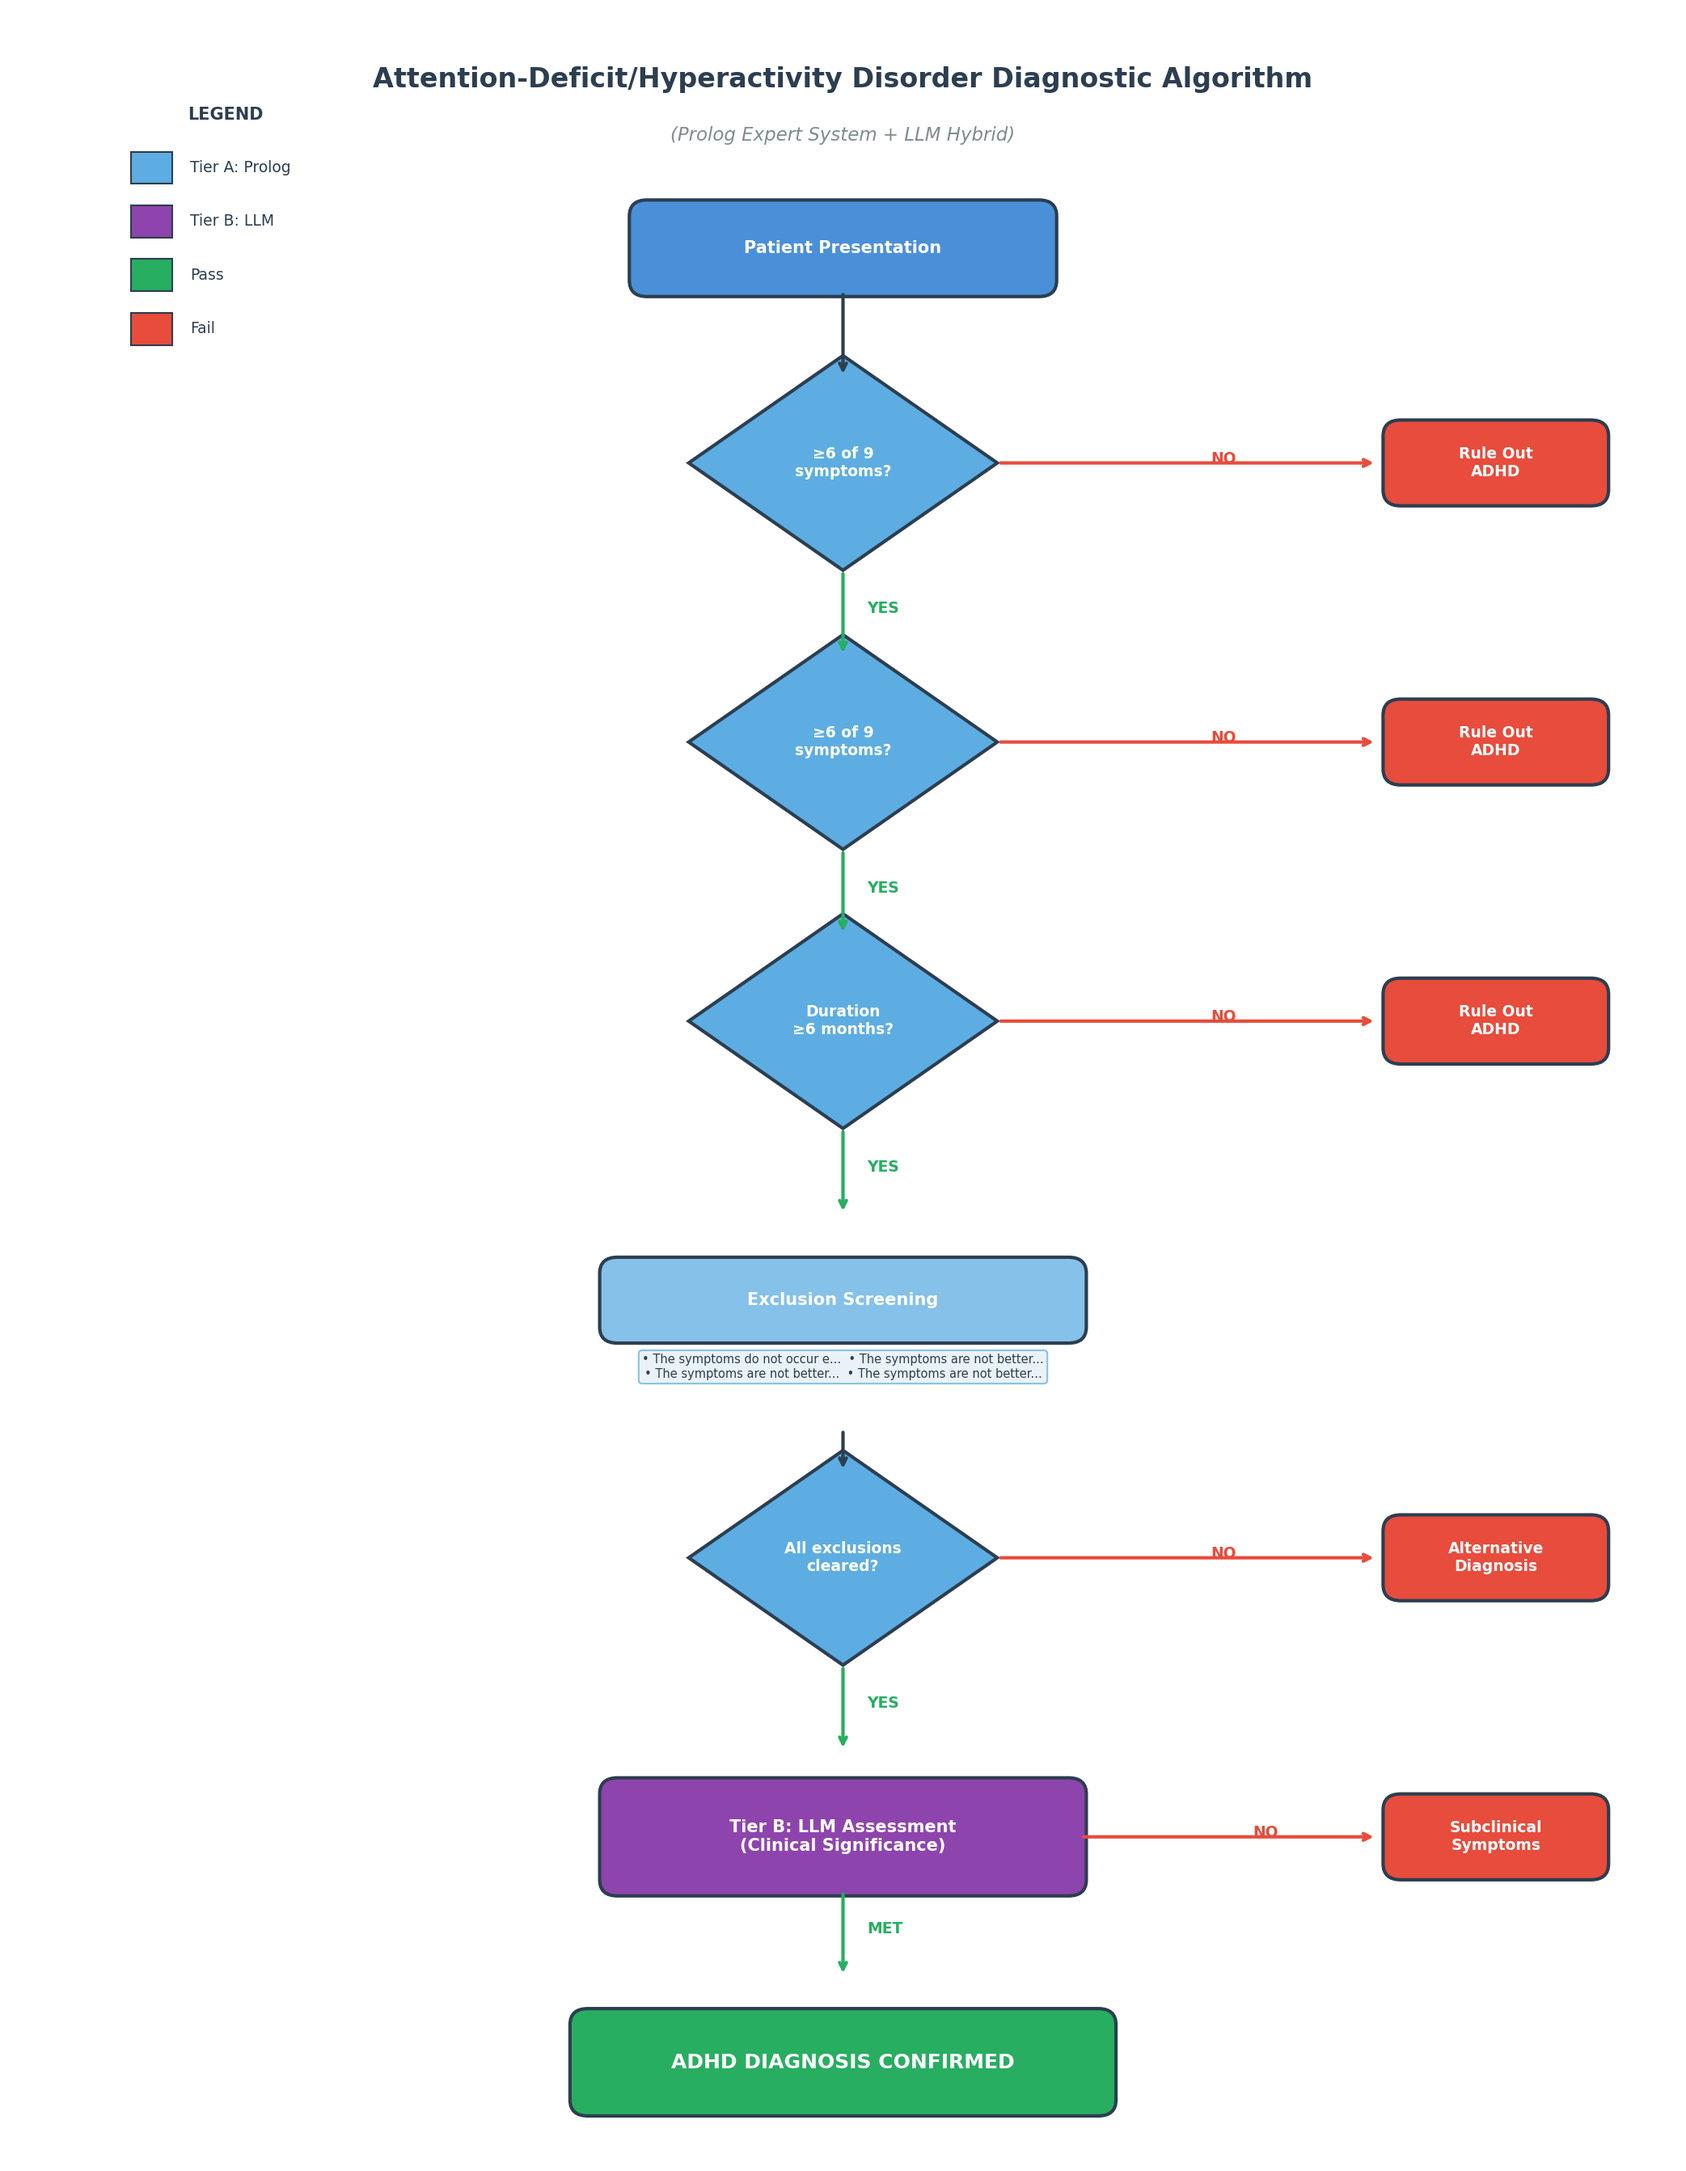
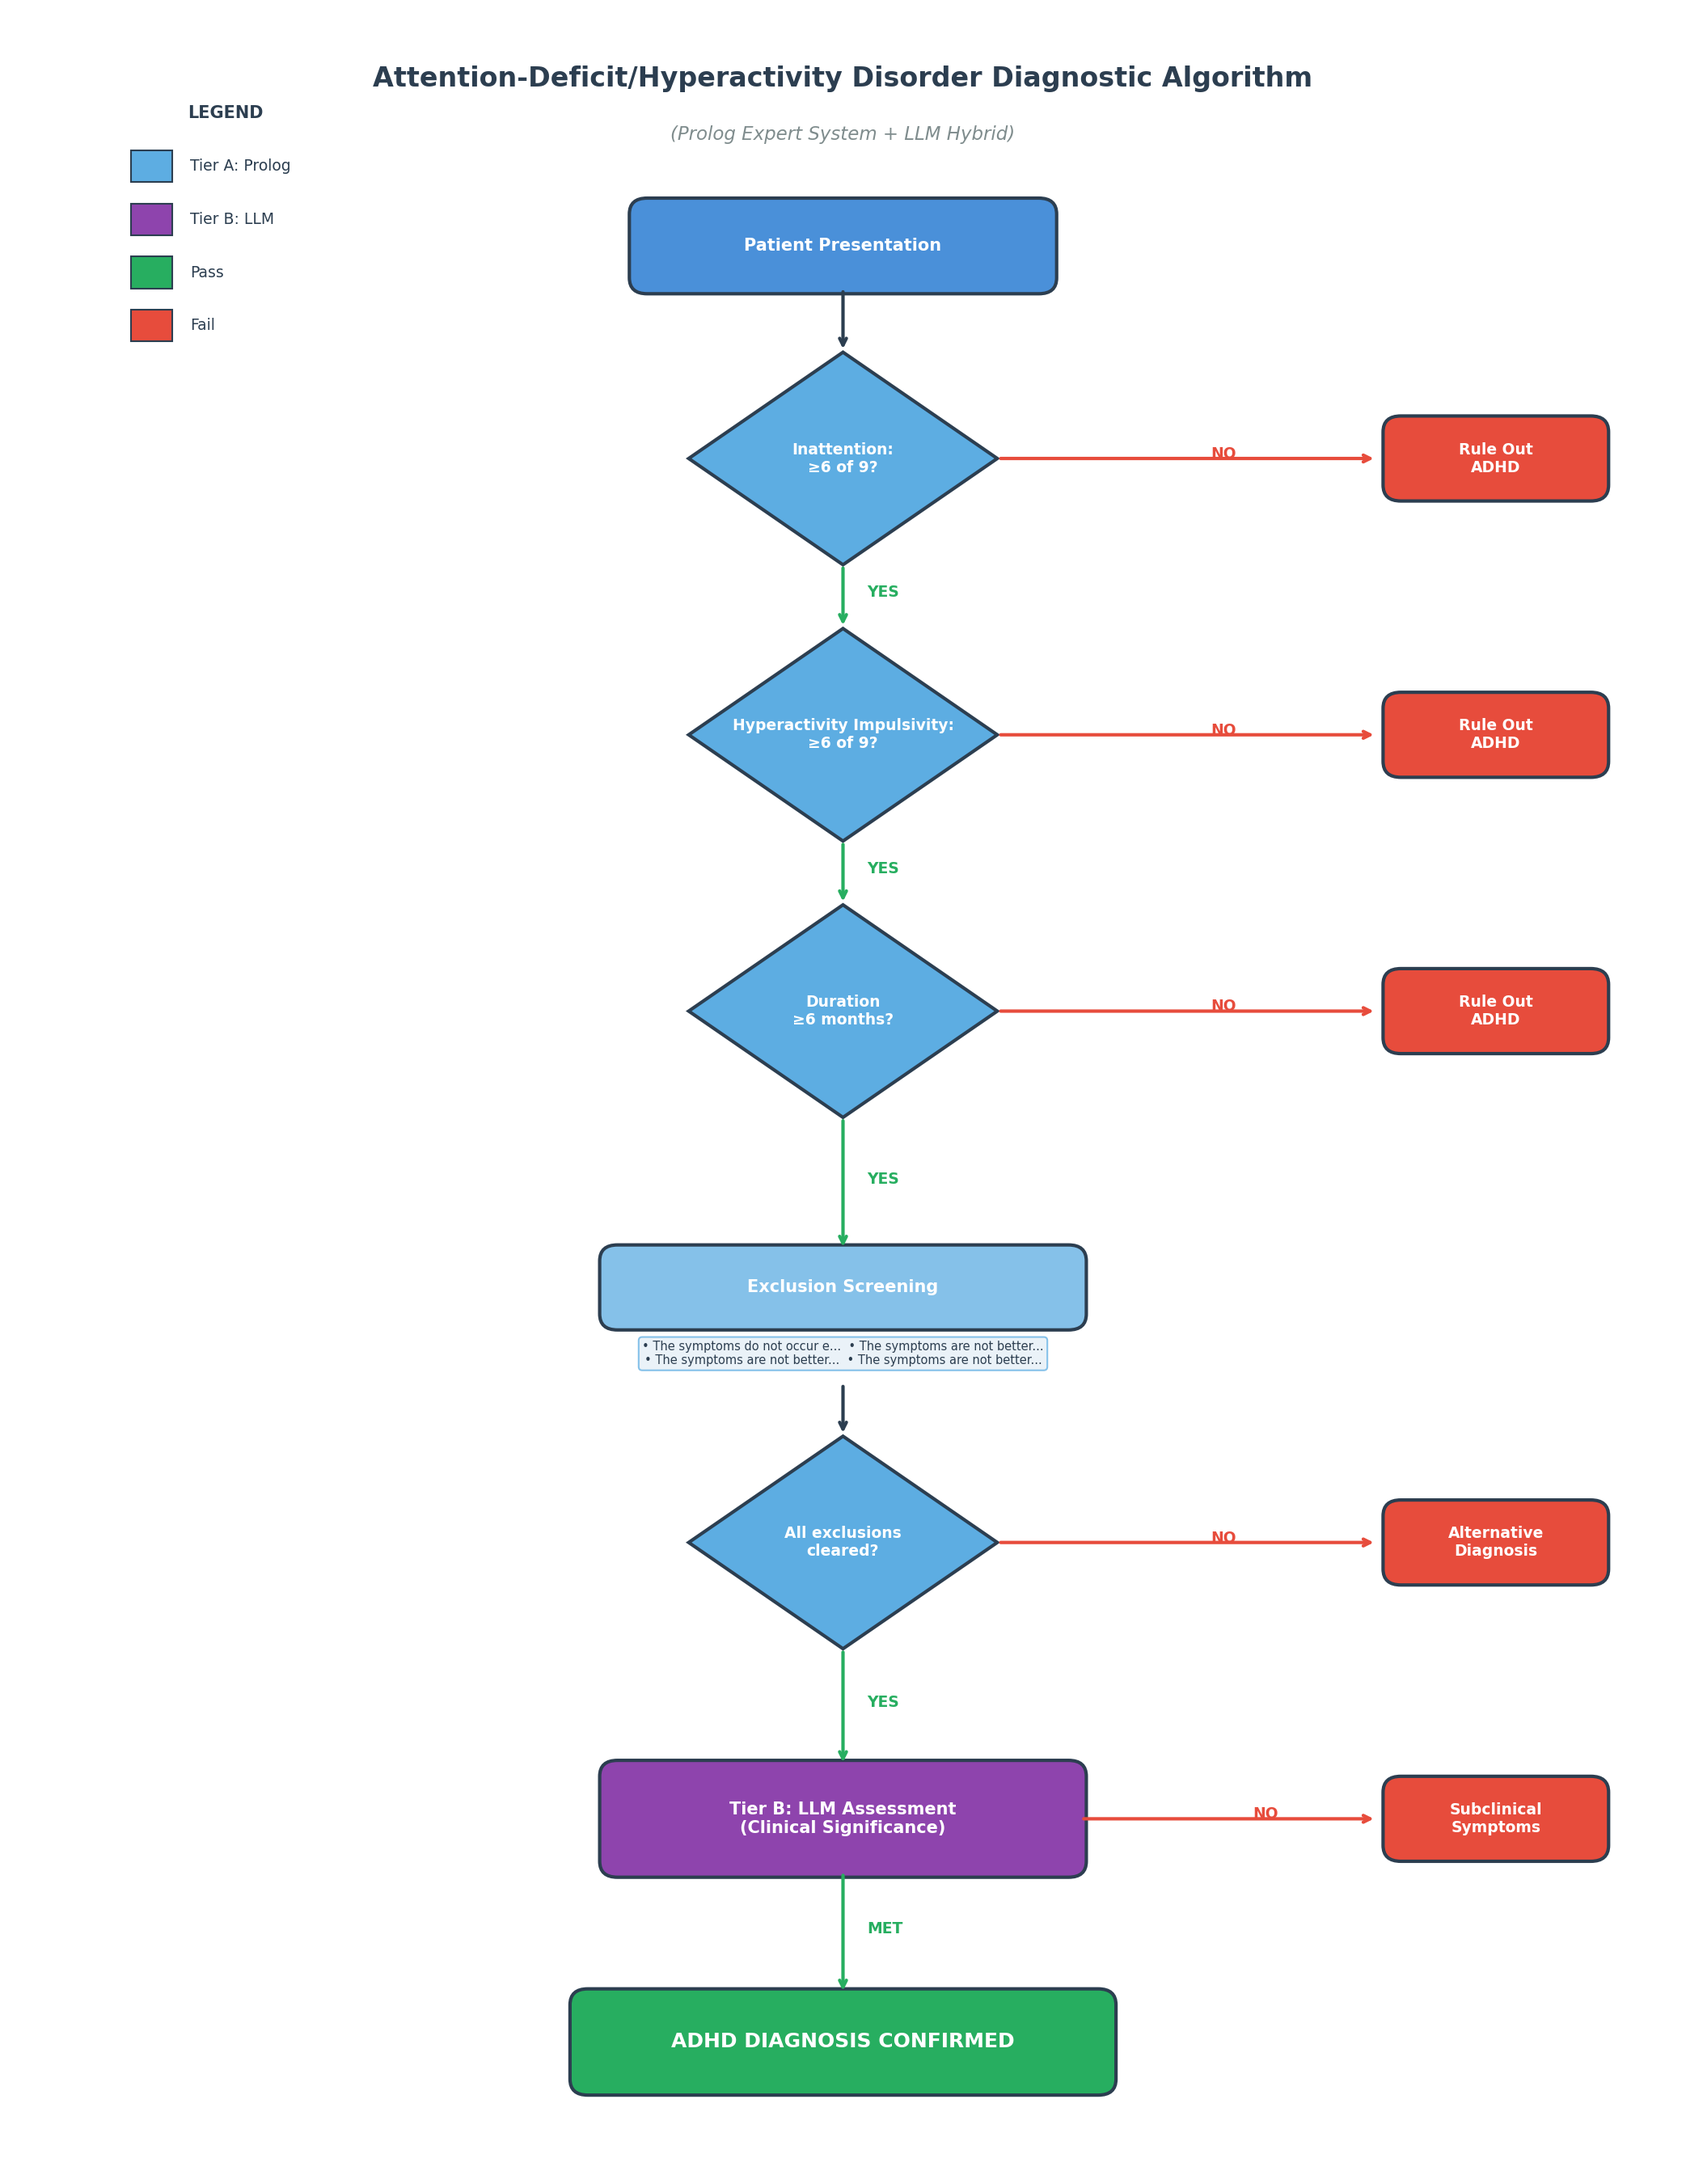
fix: make diagnostic flowcharts fully dynamic and disorder-specific
Major improvements to visualization system to support all disorder types:

## Visualization Changes (src/reasoning/viz.py)

1. **Dynamic canvas sizing**: Calculate figure height based on number of
   symptom categories (PTSD adult needs ~33 inches vs 18 for simpler disorders)

2. **Multi-category distinction**: Added category names to labels when
   multiple symptom categories exist (e.g., "Inattention: ≥6 of 9?" vs
   "Hyperactivity Impulsivity: ≥6 of 9?" for ADHD)

3. **Category type support**: Handle all symptom category types dynamically
   - at_least: "≥N of M symptoms?"
   - at_least_one_of: "At least 1 core symptom?"
   - exactly: "Exactly N symptoms?"
   - all: "All N symptoms?"

4. **Fixed arrow positioning**: Calculate arrow endpoints based on actual
   element positions instead of hardcoded offsets to prevent overlaps

5. **ASD temporal requirement**: Show "Present in early dev. period?" for
   ASD instead of generic "Duration met?" (ASD has no quantitative duration
   per DSM-5-TR Criterion C)

## PTSD Restructure (src/prolog/gold_standard/ptsd.pl)

Split PTSD into two separate disorders per DSM-5-TR structure:

1. **ptsd**: Adults, adolescents, children >6 years
   - 5 symptom categories (A: trauma exposure, B: intrusion, C: avoidance,
     D: negative cognition/mood, E: arousal/reactivity)
   - Duration: ≥1 month

2. **ptsd_preschool**: Children ≤6 years (preschool subtype)
   - 4 symptom categories (C and D are combined for children)
   - Duration: ≥1 month
[…]

diff --git a/src/reasoning/viz.py b/src/reasoning/viz.py
@@ -79,9 +79,22 @@ def visualise_diagnostic_flowchart(
     if not MATPLOTLIB_AVAILABLE:
         raise ImportError(_MATPLOTLIB_ERROR_MSG)
 
-    fig, ax = plt.subplots(figsize=(14, 18))
+    # Calculate dynamic figure height based on number of symptom categories
+    num_categories = len(disorder_data.get('symptom_categories', []))
+
+    # Each category needs ~2.6 units of vertical space
+    # Base space needed: ~15 units for non-category elements
+    # (patient presentation, duration, exclusion screening, exclusions cleared, LLM assessment, final diagnosis)
+    category_space = num_categories * 2.6
+    base_space = 15
+    total_y_range = category_space + base_space
+
+    # Scale figure height proportionally (baseline: 18 inches for 20 units)
+    fig_height = max(18, int(18 * (total_y_range / 20)))
+
+    fig, ax = plt.subplots(figsize=(14, fig_height))
     ax.set_xlim(0, 14)
-    ax.set_ylim(-4, 16)
+    ax.set_ylim(-4, total_y_range - 4)
     ax.axis('off')
 
     # Professional color palette
@@ -129,15 +142,18 @@ def visualise_diagnostic_flowchart(
     # Center x for main flow
     cx = 7
 
-    # Title
+    # Title (positioned relative to top of canvas)
+    title_y = total_y_range - 4.7
+    subtitle_y = total_y_range - 5.2
     disorder_name = disorder_data['disorder']['Name']
-    ax.text(7, 15.3, f"{disorder_name} Diagnostic Algorithm",
+    ax.text(7, title_y, f"{disorder_name} Diagnostic Algorithm",
             ha='center', fontsize=16, fontweight='bold', color='#2c3e50')
-    ax.text(7, 14.8, "(Prolog Expert System + LLM Hybrid)",
+    ax.text(7, subtitle_y, "(Prolog Expert System + LLM Hybrid)",
             ha='center', fontsize=11, fontstyle='italic', color='#7f8c8d')
 
-    # ===== LEGEND (top left) =====
-    lx, ly = 1.8, 14.5
+    # ===== LEGEND (top left, positioned relative to top) =====
+    legend_top_y = total_y_range - 5.5
+    lx, ly = 1.8, legend_top_y
     ax.text(lx, ly + 0.5, "LEGEND", fontsize=10, fontweight='bold', color='#2c3e50', ha='center')
 
     legend_items = [
@@ -155,14 +171,16 @@ def visualise_diagnostic_flowchart(
     disorder_abbrev = disorder_id.upper()
     symptom_categories = disorder_data.get('symptom_categories', [])
 
-    # 1. Patient Presentation
-    draw_box(cx, 13.8, "Patient Presentation", colors['input'], width=3.5)
-    draw_arrow(cx, 13.4, cx, 12.6, '#2c3e50')
-
     # 2-N. Dynamic symptom category checks
     # Calculate dynamic Y positions based on number of categories
-    start_y = 11.8
+    start_y = total_y_range - 8.2
     spacing = 2.6  # Vertical space between decision nodes
+
+    # 1. Patient Presentation (positioned relative to top)
+    presentation_y = total_y_range - 6.2
+    draw_box(cx, presentation_y, "Patient Presentation", colors['input'], width=3.5)
+    # Arrow to first symptom category (calculated position)
+    draw_arrow(cx, presentation_y - 0.4, cx, start_y + 1, '#2c3e50')
 
     for i, category in enumerate(symptom_categories):
         y_pos = start_y - (i * spacing)
@@ -171,21 +189,42 @@ def visualise_diagnostic_flowchart(
         symptom_count = len(category.get('Symptoms', []))
         required_count = category.get('Count', 0)
         category_type = category.get('Type', 'at_least')
-        category_id = category.get('ID', f'category_{i}')
+        category_id = category.get('CatID', f'category_{i}')
 
-        if category_type == 'at_least_one_of':
-            label = f"At least 1\ncore symptom\npresent?"
-        elif category_type == 'at_least':
-            label = f"≥{required_count} of {symptom_count}\nsymptoms?"
-        elif category_type == 'exactly':
-            label = f"Exactly {required_count}\nsymptoms?"
-        elif category_type == 'all':
-            label = f"All {symptom_count}\nsymptoms?"
+        # Create human-readable category name from CatID
+        category_name = category_id.replace('_', ' ').replace(' symptoms', '').title()
+
+        # Generate label based on category type and whether there are multiple categories
+        if len(symptom_categories) > 1:
+            # Multiple categories - add category name to distinguish them
+            if category_type == 'at_least_one_of':
+                label = f"{category_name}:\nAt least 1\npresent?"
+            elif category_type == 'at_least':
+                label = f"{category_name}:\n≥{required_count} of {symptom_count}?"
+            elif category_type == 'exactly':
+                label = f"{category_name}:\nExactly {required_count}?"
+            elif category_type == 'all':
+                label = f"{category_name}:\nAll {symptom_count}?"
+            else:
+                label = f"{category_name}:\n{required_count} of {symptom_count}?"
         else:
-            label = f"{required_count} of {symptom_count}\nsymptoms?"
+            # Single category - no need for category name
+            if category_type == 'at_least_one_of':
+                label = f"At least 1\ncore symptom\npresent?"
+            elif category_type == 'at_least':
+                label = f"≥{required_count} of {symptom_count}\nsymptoms?"
+            elif category_type == 'exactly':
+                label = f"Exactly {required_count}\nsymptoms?"
+            elif category_type == 'all':
+                label = f"All {symptom_count}\nsymptoms?"
+            else:
+                label = f"{required_count} of {symptom_count}\nsymptoms?"
 
         draw_diamond(cx, y_pos, label, colors['decision'])
-        draw_arrow(cx, y_pos - 1, cx, y_pos - 1.8, colors['arrow_yes'], "YES")
+
+        # Calculate next element position for arrow endpoint
+        next_y = y_pos - spacing
+        draw_arrow(cx, y_pos - 1, cx, next_y + 1, colors['arrow_yes'], "YES")
         draw_arrow(cx + 1.3, y_pos, 11.5, y_pos, colors['arrow_no'], "NO")
         draw_box(12.5, y_pos, f"Rule Out\n{disorder_abbrev}", colors['failure'], width=1.8, height=0.7, fontsize=9)
 
@@ -194,14 +233,25 @@ def visualise_diagnostic_flowchart(
     duration_y = start_y - (num_categories * spacing)
 
     dur = disorder_data['duration']
-    dur_text = f"Duration\n≥{dur['Dur']} {dur['Unit']}?" if dur else "Duration\nmet?"
+    # Handle disorders with quantitative duration (MDD, GAD, ADHD, PTSD)
+    if dur:
+        dur_text = f"Duration\n≥{dur['Dur']} {dur['Unit']}?"
+    # Handle disorders with qualitative temporal requirement (ASD)
+    elif disorder_id == 'asd':
+        dur_text = "Present in\nearly dev.\nperiod?"
+    # Generic fallback
+    else:
+        dur_text = "Duration\nmet?"
+
     draw_diamond(cx, duration_y, dur_text, colors['decision'])
-    draw_arrow(cx, duration_y - 1, cx, duration_y - 1.8, colors['arrow_yes'], "YES")
+
+    # Arrow to exclusion screening
+    excl_y = duration_y - spacing
+    draw_arrow(cx, duration_y - 1, cx, excl_y + 0.35, colors['arrow_yes'], "YES")
     draw_arrow(cx + 1.3, duration_y, 11.5, duration_y, colors['arrow_no'], "NO")
     draw_box(12.5, duration_y, f"Rule Out\n{disorder_abbrev}", colors['failure'], width=1.8, height=0.7, fontsize=9)
 
     # Exclusion screening (dynamic text from disorder_data)
-    excl_y = duration_y - spacing
     draw_box(cx, excl_y, "Exclusion Screening", colors['process'], width=4, height=0.7)
 
     # Generate exclusion text from first 4 exclusions
@@ -229,27 +279,30 @@ def visualise_diagnostic_flowchart(
 
     ax.text(cx, excl_y - 0.5, excl_text, ha='center', va='top', fontsize=7, color='#2c3e50',
             bbox=dict(boxstyle='round,pad=0.3', facecolor='#eaf2f8', edgecolor='#85c1e9'))
-    draw_arrow(cx, excl_y - 1.2, cx, excl_y - 1.6, '#2c3e50')
 
     # Exclusions cleared
     excl_cleared_y = excl_y - 2.4
+    draw_arrow(cx, excl_y - 0.9, cx, excl_cleared_y + 1, '#2c3e50')
+
     draw_diamond(cx, excl_cleared_y, "All exclusions\ncleared?", colors['decision'])
-    draw_arrow(cx, excl_cleared_y - 1, cx, excl_cleared_y - 1.8, colors['arrow_yes'], "YES")
-    draw_arrow(cx + 1.3, excl_cleared_y, 11.5, excl_cleared_y, colors['arrow_no'], "NO")
-    draw_box(12.5, excl_cleared_y, "Alternative\nDiagnosis", colors['failure'], width=1.8, height=0.7, fontsize=9)
 
     # LLM Assessment (Tier B)
     llm_y = excl_cleared_y - 2.6
+    draw_arrow(cx, excl_cleared_y - 1, cx, llm_y + 0.5, colors['arrow_yes'], "YES")
+    draw_arrow(cx + 1.3, excl_cleared_y, 11.5, excl_cleared_y, colors['arrow_no'], "NO")
+    draw_box(12.5, excl_cleared_y, "Alternative\nDiagnosis", colors['failure'], width=1.8, height=0.7, fontsize=9)
+
     draw_box(cx, llm_y, "Tier B: LLM Assessment\n(Clinical Significance)",
              colors['llm'], width=4, height=1, fontsize=10)
-    draw_arrow(cx, llm_y - 0.5, cx, llm_y - 1.3, colors['arrow_yes'], "MET")
+
+    # Final Diagnosis (dynamic disorder name)
+    final_y = llm_y - 2.1
+    draw_arrow(cx, llm_y - 0.5, cx, final_y + 0.45, colors['arrow_yes'], "MET")
 
     # NOT MET path - consistent red box style
     draw_arrow(cx + 2, llm_y, 11.5, llm_y, colors['arrow_no'], "NO")
     draw_box(12.5, llm_y, "Subclinical\nSymptoms", colors['failure'], width=1.8, height=0.7, fontsize=9)
 
-    # Final Diagnosis (dynamic disorder name)
-    final_y = llm_y - 2.1
     draw_box(cx, final_y, f"{disorder_abbrev} DIAGNOSIS CONFIRMED", colors['success'], width=4.5, height=0.9, fontsize=12)
 
     plt.tight_layout()
